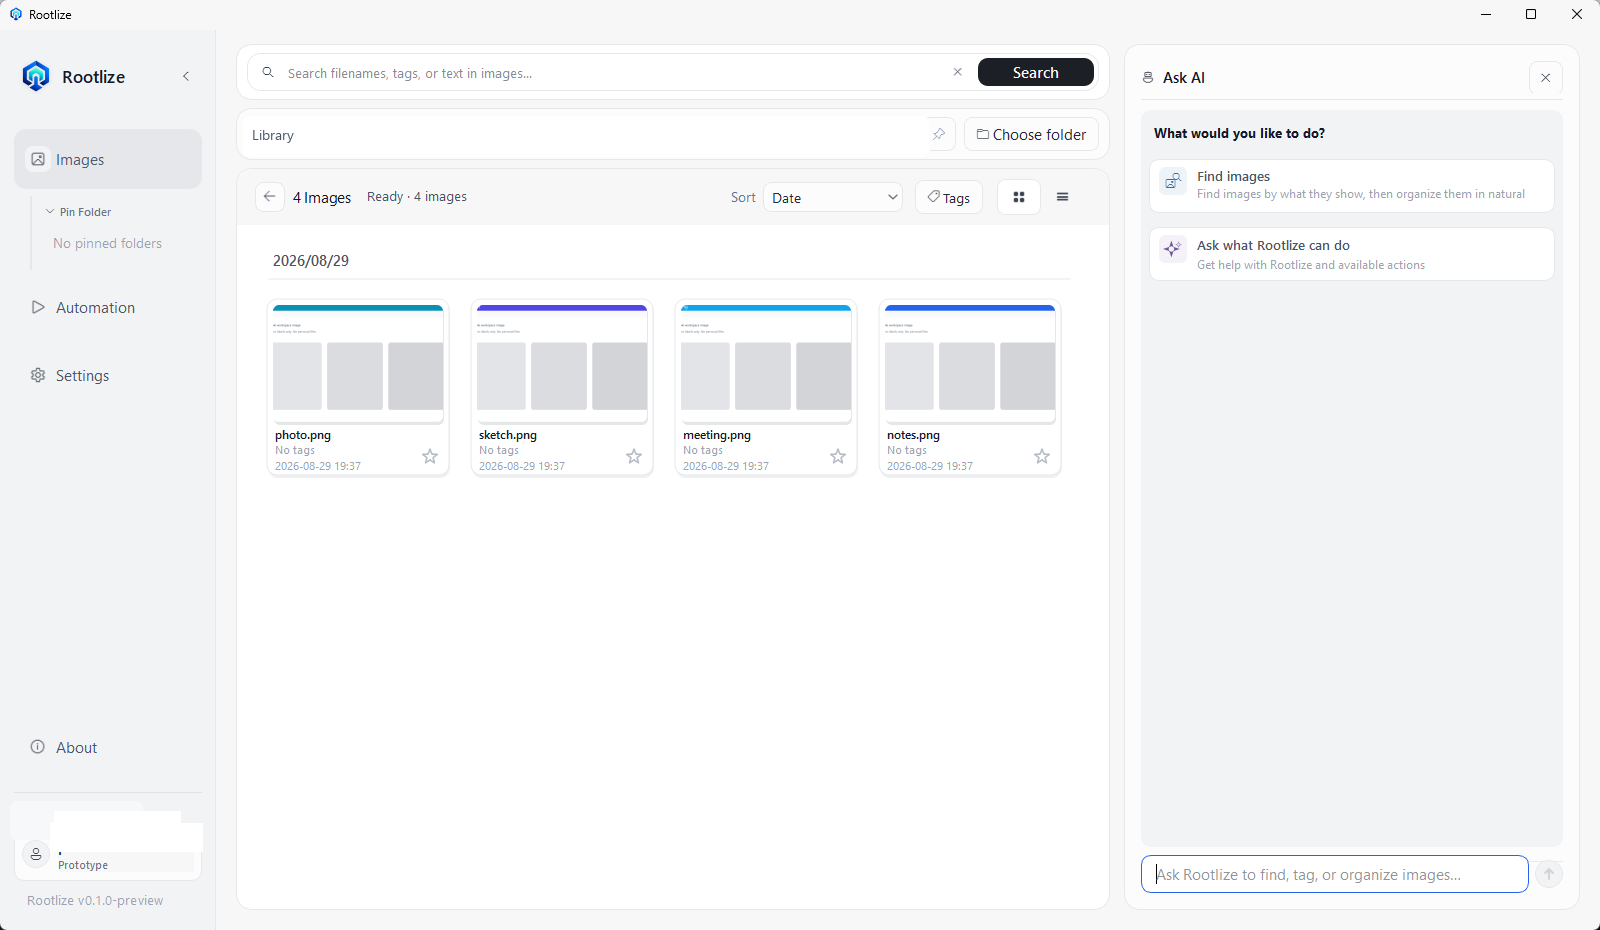
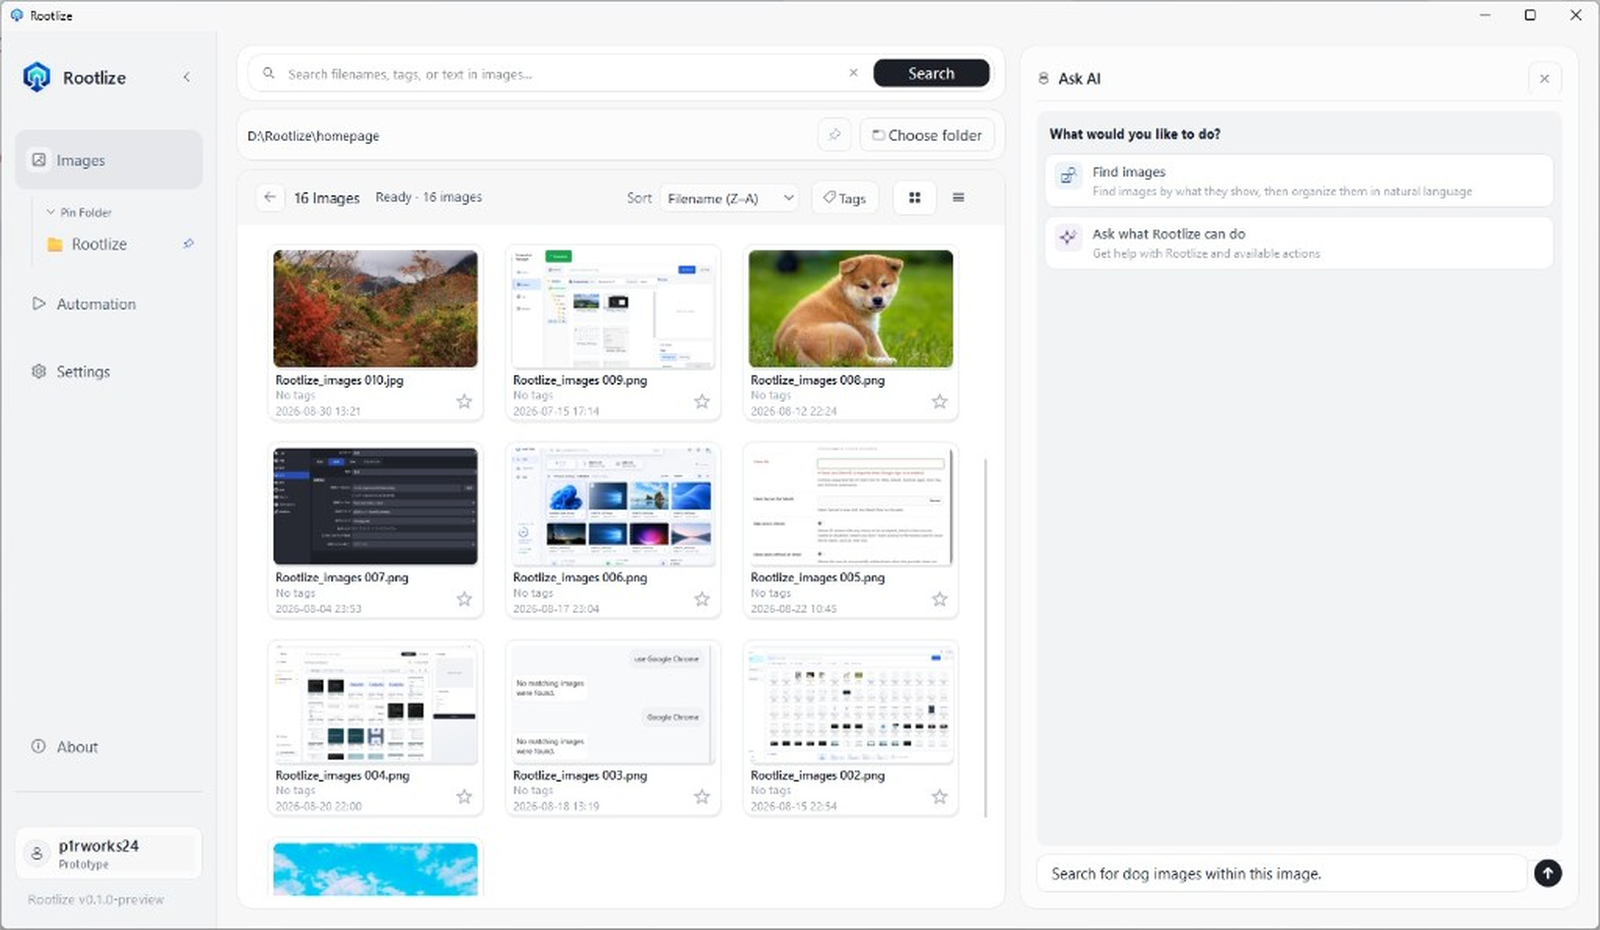
Show the current Images, Ask AI, and Automation screens and align the download buttons.

diff --git a/website/index.html b/website/index.html
@@ -17,7 +17,7 @@
       href="https://fonts.googleapis.com/css2?family=Outfit:wght@500;600;700&family=Source+Sans+3:wght@400;500;600&display=swap"
       rel="stylesheet"
     />
-    <link rel="stylesheet" href="css/styles.css?v=20260830c" />
+    <link rel="stylesheet" href="css/styles.css?v=20260830d" />
   </head>
   <body>
     <header class="site-header">
@@ -48,22 +48,22 @@
               moving them to the cloud.
             </p>
             <div class="cta-row">
-              <div class="hero-download">
+              <div class="cta-pair">
                 <a class="btn btn-primary" data-url-download href="#download"
                   >Download Preview</a
                 >
-                <p class="download-meta" data-download-meta>
-                  Windows 10 / 11 · ZIP available after the GitHub Release
-                </p>
+                <a
+                  class="btn btn-secondary"
+                  data-url-github
+                  href="https://github.com/p1rworks24-ops/Rootlize"
+                  target="_blank"
+                  rel="noopener noreferrer"
+                  >View on GitHub</a
+                >
               </div>
-              <a
-                class="btn btn-secondary"
-                data-url-github
-                href="https://github.com/p1rworks24-ops/Rootlize"
-                target="_blank"
-                rel="noopener noreferrer"
-                >View on GitHub</a
-              >
+              <p class="download-meta" data-download-meta>
+                Windows 10 / 11 · ZIP available after the GitHub Release
+              </p>
             </div>
             <p class="hero-proof">
               Windows 10 / 11 · Sign in to start · Images stay on your PC
@@ -466,15 +466,17 @@
               </p>
             </div>
             <div class="download-actions">
-              <a class="btn btn-primary" data-url-download href="#download"
-                >Download Preview</a
-              >
+              <div class="cta-pair">
+                <a class="btn btn-primary" data-url-download href="#download"
+                  >Download Preview</a
+                >
+                <a class="btn btn-secondary" data-url-releases href="#download"
+                  >View release details</a
+                >
+              </div>
               <p class="download-meta" data-download-meta>
                 Windows 10 / 11 · ZIP available after the GitHub Release
               </p>
-              <a class="btn btn-secondary" data-url-releases href="#download"
-                >View release details</a
-              >
             </div>
           </div>
         </div>
@@ -593,7 +595,7 @@
       </figure>
     </div>
 
-    <script src="js/content.js?v=20260830c"></script>
-    <script src="js/main.js?v=20260830c"></script>
+    <script src="js/content.js?v=20260830d"></script>
+    <script src="js/main.js?v=20260830d"></script>
   </body>
 </html>

diff --git a/website/css/styles.css b/website/css/styles.css
@@ -220,15 +220,29 @@ p {
 
 .cta-row {
   display: flex;
-  flex-wrap: wrap;
-  gap: 0.75rem;
+  flex-direction: column;
+  align-items: flex-start;
+  gap: 0.45rem;
   margin-top: 1.75rem;
+}
+
+.cta-pair {
+  display: grid;
+  grid-template-columns: 1fr 1fr;
+  gap: 0.75rem;
+  width: min(100%, 26.5rem);
+}
+
+.cta-pair .btn {
+  width: 100%;
+  min-height: 2.85rem;
+  box-sizing: border-box;
 }
 
 .hero-download {
   display: flex;
   flex-direction: column;
-  align-items: center;
+  align-items: flex-start;
 }
 
 .download-meta {
@@ -236,7 +250,7 @@ p {
   color: var(--text-muted);
   font-size: 0.8rem;
   line-height: 1.3;
-  text-align: center;
+  text-align: left;
 }
 
 .download-frame {
@@ -1953,15 +1967,17 @@ p {
     gap: 2rem;
   }
 
-  .cta-row {
-    flex-direction: column;
-  }
-
-  .cta-row .btn {
+  .cta-row,
+  .hero-download {
     width: 100%;
   }
 
-  .hero-download {
+  .cta-pair {
+    width: 100%;
+    grid-template-columns: 1fr;
+  }
+
+  .cta-pair .btn {
     width: 100%;
   }
 

diff --git a/website/js/content.js b/website/js/content.js
@@ -34,15 +34,9 @@ window.CAPIXE = {
   screenshots: [
     {
       src: "assets/screenshots/images.png",
-      alt: "Rootlize Images workspace with Basic Search",
+      alt: "Rootlize Images workspace",
       caption: "Images — search the folder already on your PC",
       slot: "images",
-    },
-    {
-      src: "assets/screenshots/meaning-search.png",
-      alt: "Rootlize Meaning Search",
-      caption: "Meaning Search — find images by what they show",
-      slot: "meaning-search",
     },
     {
       src: "assets/screenshots/ask-ai.png",
@@ -55,12 +49,6 @@ window.CAPIXE = {
       alt: "Rootlize Automation page",
       caption: "Automation — save a flow and run it again",
       slot: "automation",
-    },
-    {
-      src: "assets/screenshots/account.png",
-      alt: "Rootlize Account page",
-      caption: "Account — Prototype plan after sign-in",
-      slot: "account",
     },
   ],
   faq: [

diff --git a/website/privacy/index.html b/website/privacy/index.html
@@ -18,7 +18,7 @@
       href="https://fonts.googleapis.com/css2?family=Outfit:wght@500;600;700&family=Source+Sans+3:wght@400;500;600&display=swap"
       rel="stylesheet"
     />
-    <link rel="stylesheet" href="/css/styles.css?v=20260830c" />
+    <link rel="stylesheet" href="/css/styles.css?v=20260830d" />
   </head>
   <body>
     <header class="site-header legal-chrome">
@@ -185,7 +185,7 @@
       </div>
     </footer>
 
-    <script src="/js/content.js?v=20260830c"></script>
-    <script src="/js/main.js?v=20260830c"></script>
+    <script src="/js/content.js?v=20260830d"></script>
+    <script src="/js/main.js?v=20260830d"></script>
   </body>
 </html>

diff --git a/website/terms/index.html b/website/terms/index.html
@@ -18,7 +18,7 @@
       href="https://fonts.googleapis.com/css2?family=Outfit:wght@500;600;700&family=Source+Sans+3:wght@400;500;600&display=swap"
       rel="stylesheet"
     />
-    <link rel="stylesheet" href="/css/styles.css?v=20260830c" />
+    <link rel="stylesheet" href="/css/styles.css?v=20260830d" />
   </head>
   <body>
     <header class="site-header legal-chrome">
@@ -117,7 +117,7 @@
       </div>
     </footer>
 
-    <script src="/js/content.js?v=20260830c"></script>
-    <script src="/js/main.js?v=20260830c"></script>
+    <script src="/js/content.js?v=20260830d"></script>
+    <script src="/js/main.js?v=20260830d"></script>
   </body>
 </html>
